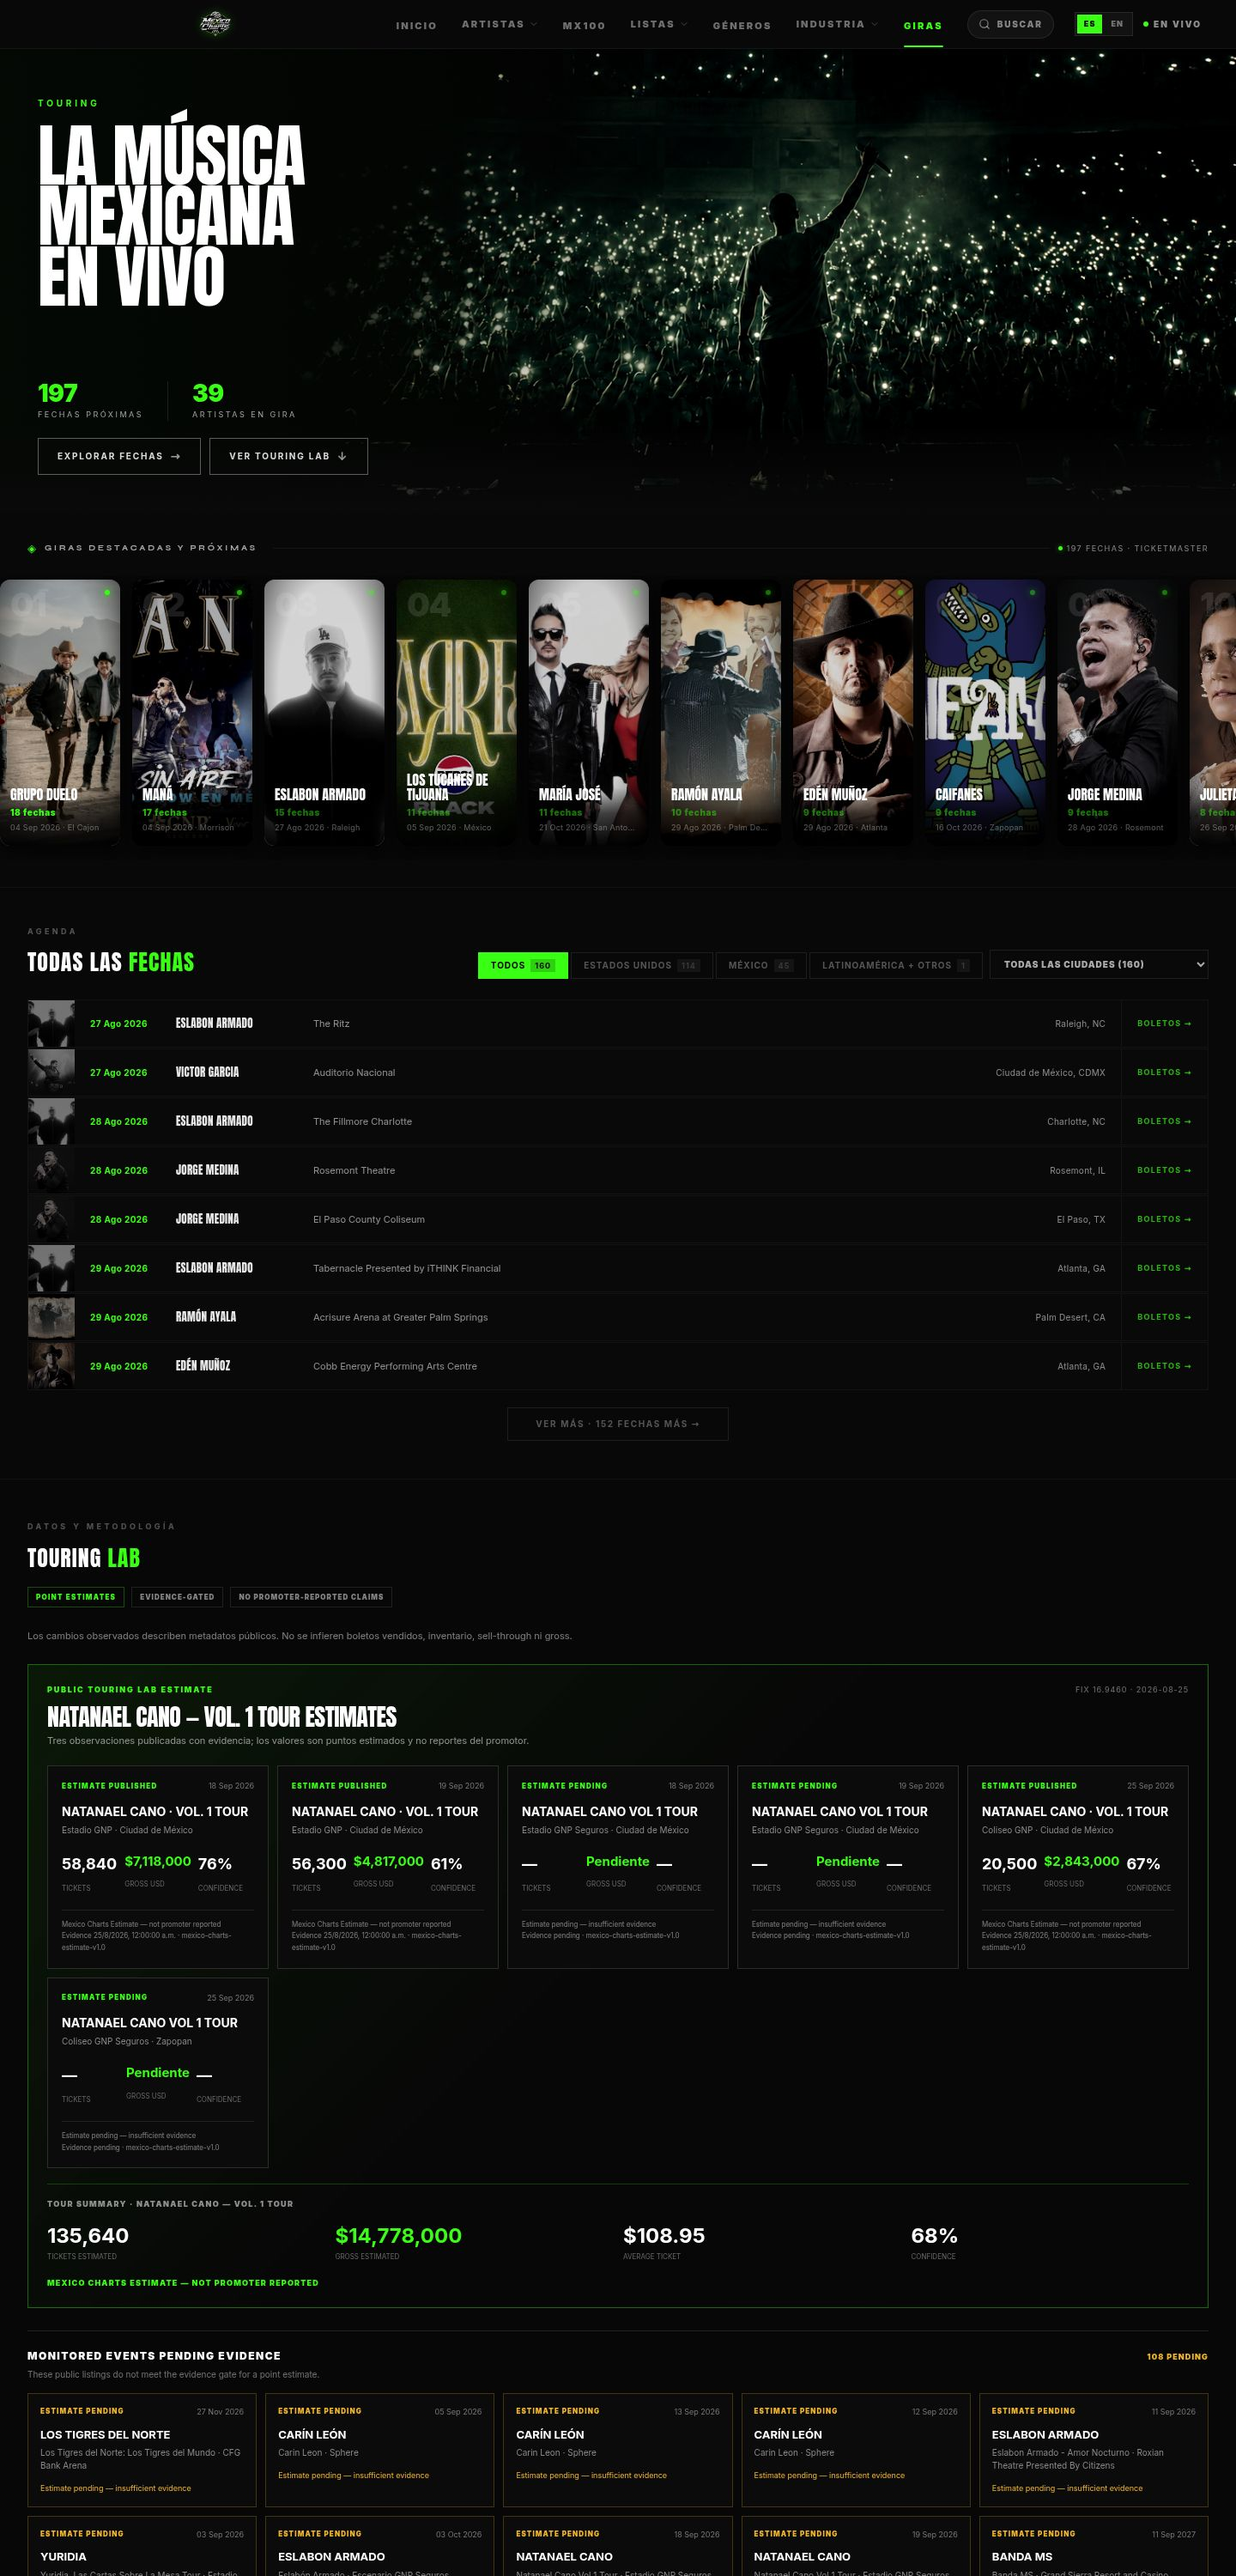
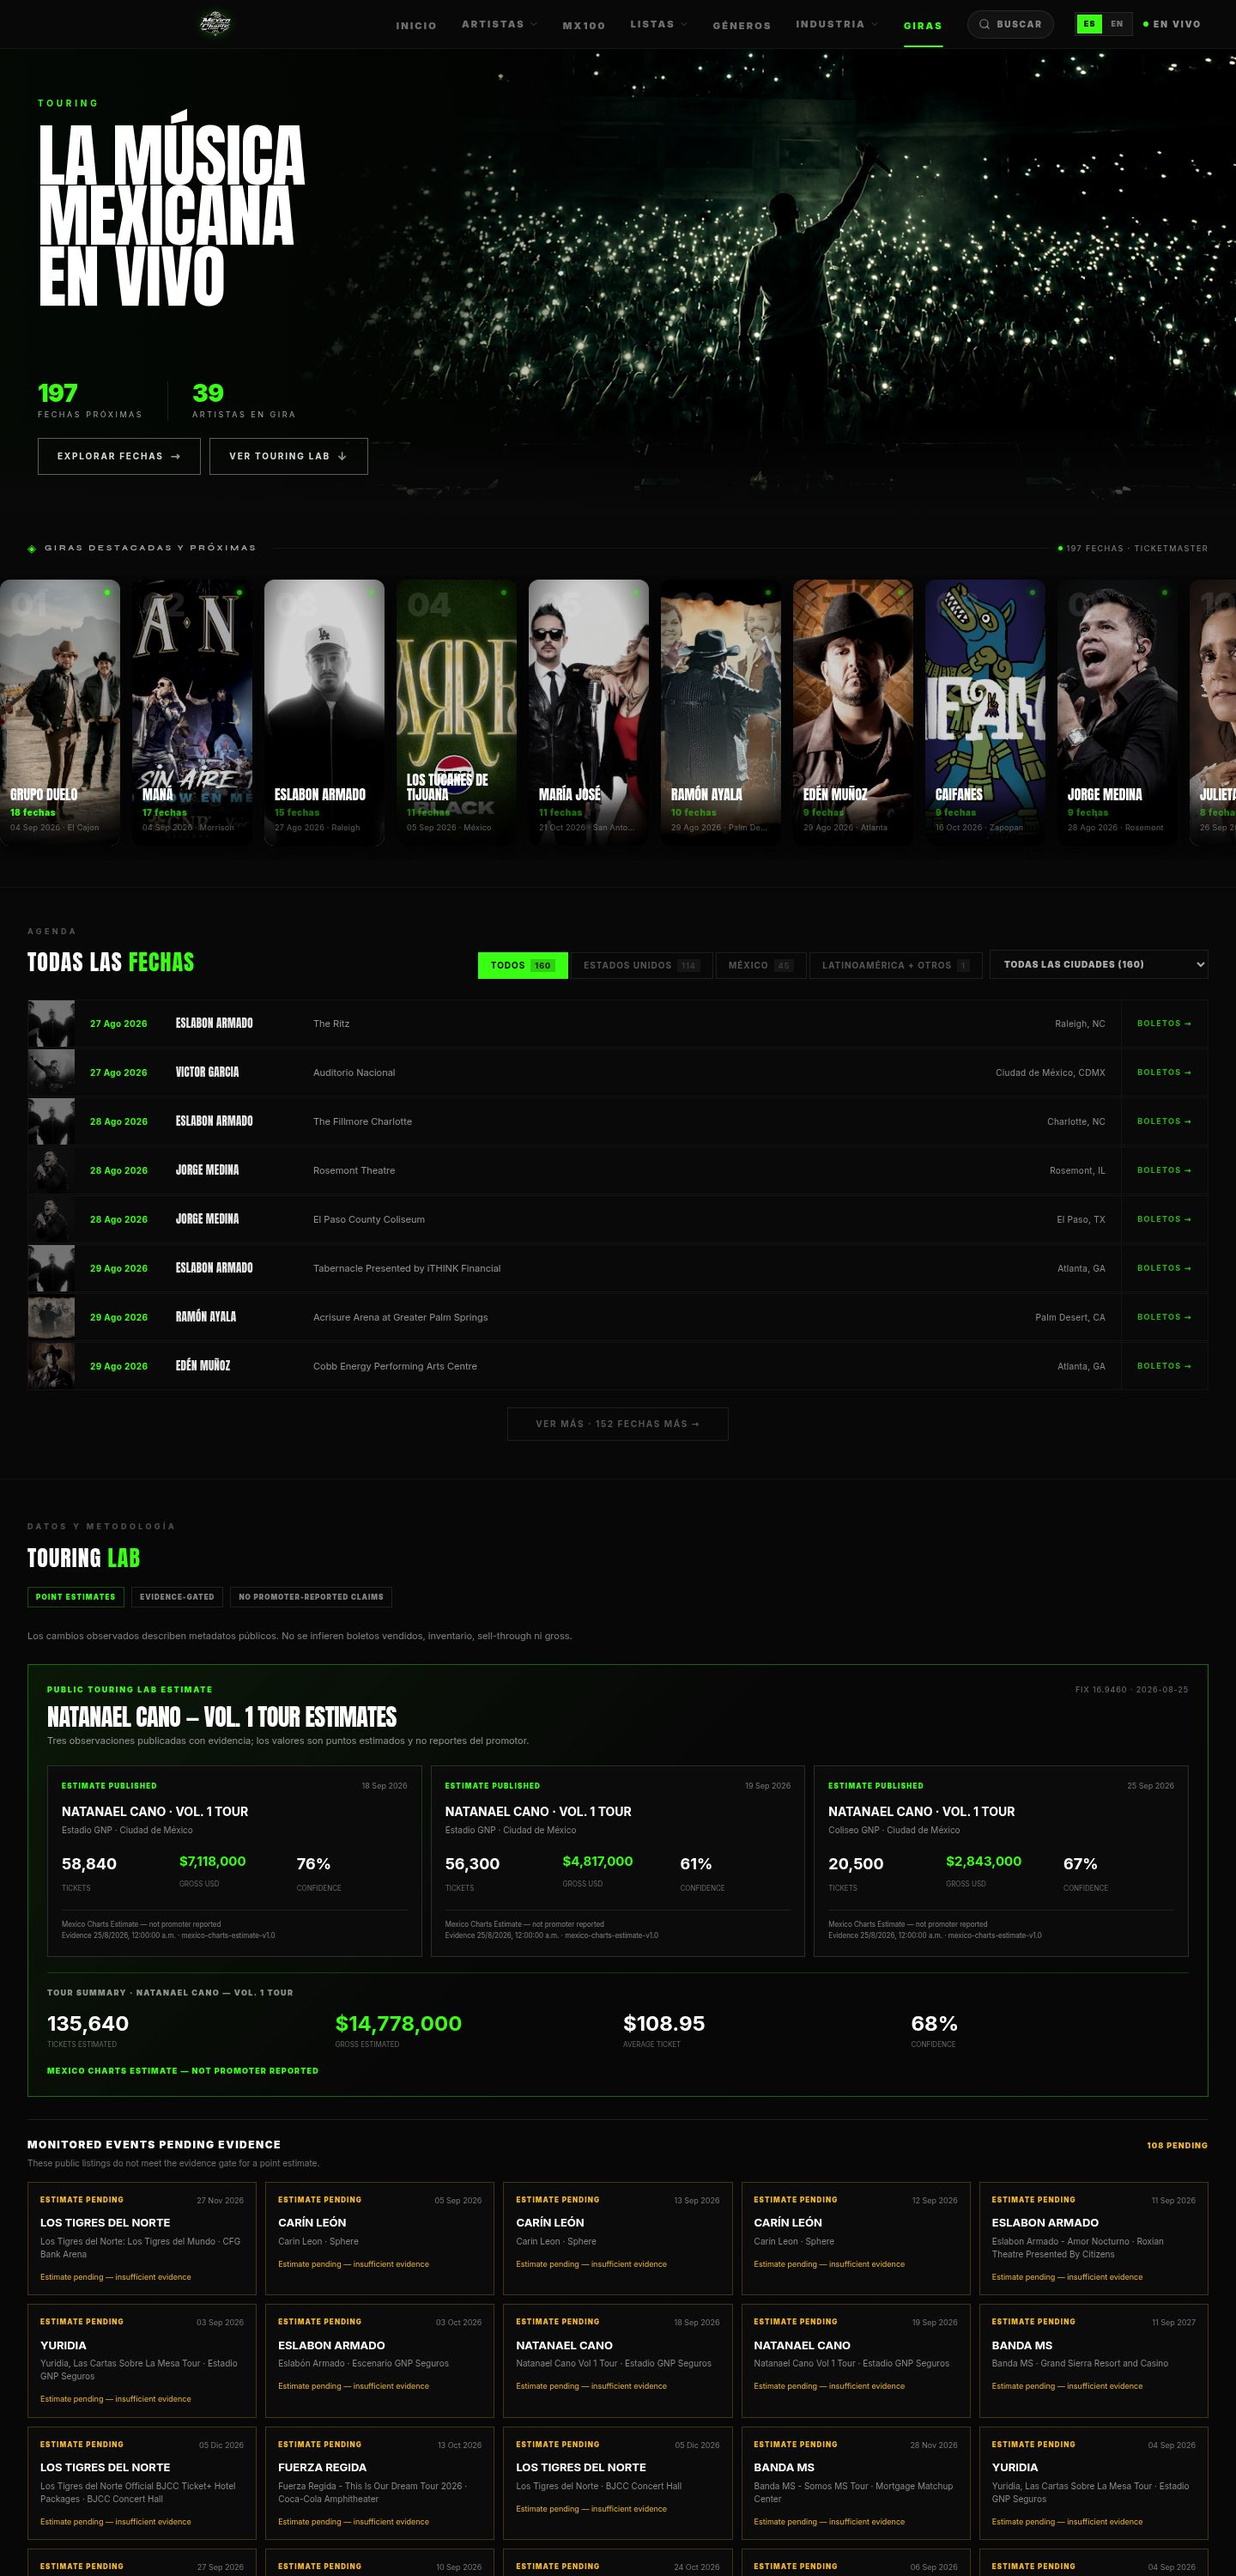
Update touring hub page and verification images
Replit-Commit-Author: Agent

diff --git a/artifacts/mexico-charts/src/pages/TouringHub.tsx b/artifacts/mexico-charts/src/pages/TouringHub.tsx
@@ -212,7 +212,7 @@ export default function TouringHub() {
       document.getElementById("touring-lab")?.scrollIntoView({ block: "start" });
     }, 100);
     return () => window.clearTimeout(scrollToLab);
-  }, []);
+  }, [artists, touringLab]);
 
   async function submitNewsletter(event: React.FormEvent<HTMLFormElement>) {
     event.preventDefault();
